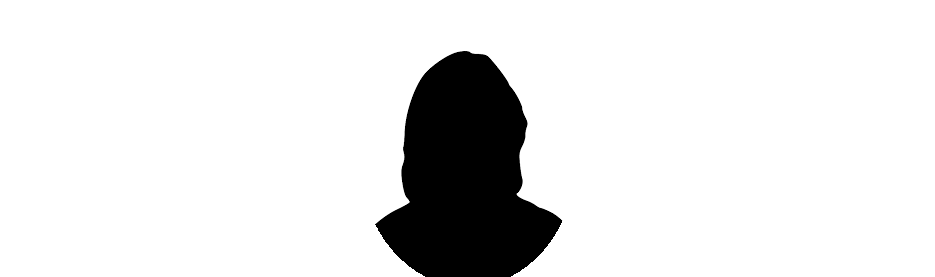
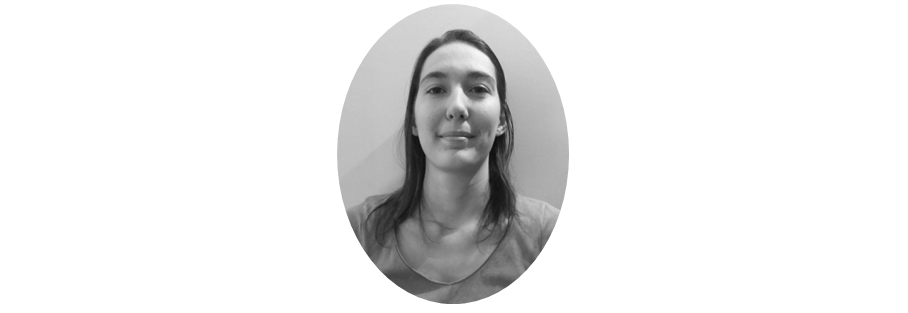
correction de fautes de frappes et changement de photo a-propos

Changed region(s): [[0.37, 0.0, 0.6476, 1.0]]

diff --git a/src/realisations.html b/src/realisations.html
@@ -37,7 +37,7 @@
             <div>
                 <h2 id="annuaire-web" class="centre">Développement d’un annuaire web et d’une solution de localisation</h2>
                 <p>
-                    Lors de ma deuxième année dans le BTS SIO, j’ai effectué un stage de six semaines à la Caisse d’Epargne de Grenoble, avec l’un de mes collègues de classe.
+                    Lors de ma deuxième année dans le BTS SIO, j’ai effectué un stage de six semaines à la Caisse d’Epargne de Grenoble, avec l’un de mes camarades de classe.
                     Nous avons été chargés de la réalisation du projet "Find me INCITY". Il s'agit d’un annuaire de renseignement avec la possibilité de localiser les éléments recherchés.<br/> 
                     Cet annuaire a pour but de renseigner rapidement les utilisateurs (collaborateurs externes/internes, et les visiteurs) qui cherchent un service afin d’éviter une perte de temps.<br/><br/>  
                     L'annuaire devait être présenté sous format web et en responsive design, c’est à dire qu’il s’adapte à tous types de formats (ordinateur fixe, tablette, smartphone). De plus, la localisation de tous les éléments disponibles de la tour devait se faire via une partie indépendante de l'annuaire.<br/>
@@ -77,7 +77,7 @@
             <div>
                 <h2 id="interface-graphique" class="centre">Développement d’une interface graphique client en C#</h2>
                 <p> 
-                    Dans le cadre de ma formation en BTS SIO, j’ai réalisé un stage d’un mois dans l’entreprise Axe Informatique avec l’un de mes collègues de classe. L’activité de l’entreprise est essentiellement basée sur la vente et formation sur logiciels de gestion SAGE, mais aussi sur le conseil en informatique.<br/>
+                    Dans le cadre de ma formation en BTS SIO, j’ai réalisé un stage d’un mois dans l’entreprise Axe Informatique avec l’un de mes camarades de classe. L’activité de l’entreprise est essentiellement basée sur la vente et formation sur logiciels de gestion SAGE, mais aussi sur le conseil en informatique.<br/>
                     Axe Informatique réalise sur demande des extensions de logiciels SAGE. Ces demandes sont propres à chacun de leurs clients. Auparavant, une fois les extensions développées, Axe Informatique englobait leurs produits développés dans une interface simple et personnalisée pour faciliter l’accès aux clients. Cependant, l’entreprise a décidé de changer l’interface et de la rendre unique à tous leurs clients, mais aussi qu’elle soit moderne et design. Ceci était un point important, puisque cela permettait à l’entreprise de bénéficier d’un avantage esthétique sur leurs concurrents.<br/>
                     Nous avons travaillé sur tous les modules sauf celui portant le nom : « Traitement ». Ce module est réservé aux extensions de logiciels SAGE, par conséquent il ne nous concernait pas.<br/>
                     Pour réaliser ce projet, nous avons utilisé le logiciel Microsoft Visual Studio Express 2013, avec le WPF (Windows Presentatation Foundation).

diff --git a/www/realisations.html b/www/realisations.html
@@ -34,7 +34,7 @@
             <div>
                 <h2 id="annuaire-web" class="centre">Développement d’un annuaire web et d’une solution de localisation</h2>
                 <p>
-                    Lors de ma deuxième année dans le BTS SIO, j’ai effectué un stage de six semaines à la Caisse d’Epargne de Grenoble, avec l’un de mes collègues de classe.
+                    Lors de ma deuxième année dans le BTS SIO, j’ai effectué un stage de six semaines à la Caisse d’Epargne de Grenoble, avec l’un de mes camarades de classe.
                     Nous avons été chargés de la réalisation du projet "Find me INCITY". Il s'agit d’un annuaire de renseignement avec la possibilité de localiser les éléments recherchés.<br/> 
                     Cet annuaire a pour but de renseigner rapidement les utilisateurs (collaborateurs externes/internes, et les visiteurs) qui cherchent un service afin d’éviter une perte de temps.<br/><br/>  
                     L'annuaire devait être présenté sous format web et en responsive design, c’est à dire qu’il s’adapte à tous types de formats (ordinateur fixe, tablette, smartphone). De plus, la localisation de tous les éléments disponibles de la tour devait se faire via une partie indépendante de l'annuaire.<br/>
@@ -74,7 +74,7 @@
             <div>
                 <h2 id="interface-graphique" class="centre">Développement d’une interface graphique client en C#</h2>
                 <p> 
-                    Dans le cadre de ma formation en BTS SIO, j’ai réalisé un stage d’un mois dans l’entreprise Axe Informatique avec l’un de mes collègues de classe. L’activité de l’entreprise est essentiellement basée sur la vente et formation sur logiciels de gestion SAGE, mais aussi sur le conseil en informatique.<br/>
+                    Dans le cadre de ma formation en BTS SIO, j’ai réalisé un stage d’un mois dans l’entreprise Axe Informatique avec l’un de mes camarades de classe. L’activité de l’entreprise est essentiellement basée sur la vente et formation sur logiciels de gestion SAGE, mais aussi sur le conseil en informatique.<br/>
                     Axe Informatique réalise sur demande des extensions de logiciels SAGE. Ces demandes sont propres à chacun de leurs clients. Auparavant, une fois les extensions développées, Axe Informatique englobait leurs produits développés dans une interface simple et personnalisée pour faciliter l’accès aux clients. Cependant, l’entreprise a décidé de changer l’interface et de la rendre unique à tous leurs clients, mais aussi qu’elle soit moderne et design. Ceci était un point important, puisque cela permettait à l’entreprise de bénéficier d’un avantage esthétique sur leurs concurrents.<br/>
                     Nous avons travaillé sur tous les modules sauf celui portant le nom : « Traitement ». Ce module est réservé aux extensions de logiciels SAGE, par conséquent il ne nous concernait pas.<br/>
                     Pour réaliser ce projet, nous avons utilisé le logiciel Microsoft Visual Studio Express 2013, avec le WPF (Windows Presentatation Foundation).

diff --git a/src/a-propos.html b/src/a-propos.html
@@ -25,7 +25,7 @@
             <img alt="developpement-web" class="img-full" src="images/caporali-alice.png"/>   	                         
             <h1>Mon profil</h1><br/>
 
-            <p>Je m'appelle <strong>Caporali Alice</strong>, je suis actuellement en <strong>alternance dans la licence professionnelle SMIN </strong>(Services Mobiles et Interface Nomade) à l'IUT 1 de Grenoble. Avant de faire cette formation, j'ai fais un BAC STG qui m'a permis de m'initier au domaine de la communication. Puis, j'ai obtenu un BTS SIO où j'ai appris les bases de la programmation (web, logiciel et mobile).<br/>
+            <p>Je m'appelle <strong>Caporali Alice</strong>, je suis actuellement en <strong>alternance dans la licence professionnelle SMIN </strong>(Services Mobiles et Interface Nomade) à l'IUT 1 de Grenoble. Avant de suivre cette formation, j'ai fait un BAC STG qui m'a permis de m'initier au domaine de la communication. Puis, j'ai obtenu un BTS SIO où j'ai appris les bases de la programmation (web, logiciel et mobile).<br/>
             L'objectif de cette licence est de former des professionnels pour les <strong>services web</strong> , capables notamment  d'<strong>adapter les supports web aux périphériques mobiles</strong>.
 
             Vous trouverez sur ce site la présentation de mon profil.<br><br/></p>
@@ -33,8 +33,8 @@
 
             <table class="bord-table">
                <tr class="centre">
-                   <th>Experience</th>
-                   <th>Competences</th>
+                   <th>Expérience</th>
+                   <th>Compétences</th>
                </tr>
 
                <tr>

diff --git a/www/a-propos.html b/www/a-propos.html
@@ -22,7 +22,7 @@
             <img alt="developpement-web" class="img-full" src="images/caporali-alice.png"/>   	                         
             <h1>Mon profil</h1><br/>
 
-            <p>Je m'appelle <strong>Caporali Alice</strong>, je suis actuellement en <strong>alternance dans la licence professionnelle SMIN </strong>(Services Mobiles et Interface Nomade) à l'IUT 1 de Grenoble. Avant de faire cette formation, j'ai fais un BAC STG qui m'a permis de m'initier au domaine de la communication. Puis, j'ai obtenu un BTS SIO où j'ai appris les bases de la programmation (web, logiciel et mobile).<br/>
+            <p>Je m'appelle <strong>Caporali Alice</strong>, je suis actuellement en <strong>alternance dans la licence professionnelle SMIN </strong>(Services Mobiles et Interface Nomade) à l'IUT 1 de Grenoble. Avant de suivre cette formation, j'ai fait un BAC STG qui m'a permis de m'initier au domaine de la communication. Puis, j'ai obtenu un BTS SIO où j'ai appris les bases de la programmation (web, logiciel et mobile).<br/>
             L'objectif de cette licence est de former des professionnels pour les <strong>services web</strong> , capables notamment  d'<strong>adapter les supports web aux périphériques mobiles</strong>.
 
             Vous trouverez sur ce site la présentation de mon profil.<br><br/></p>
@@ -30,8 +30,8 @@
 
             <table class="bord-table">
                <tr class="centre">
-                   <th>Experience</th>
-                   <th>Competences</th>
+                   <th>Expérience</th>
+                   <th>Compétences</th>
                </tr>
 
                <tr>
